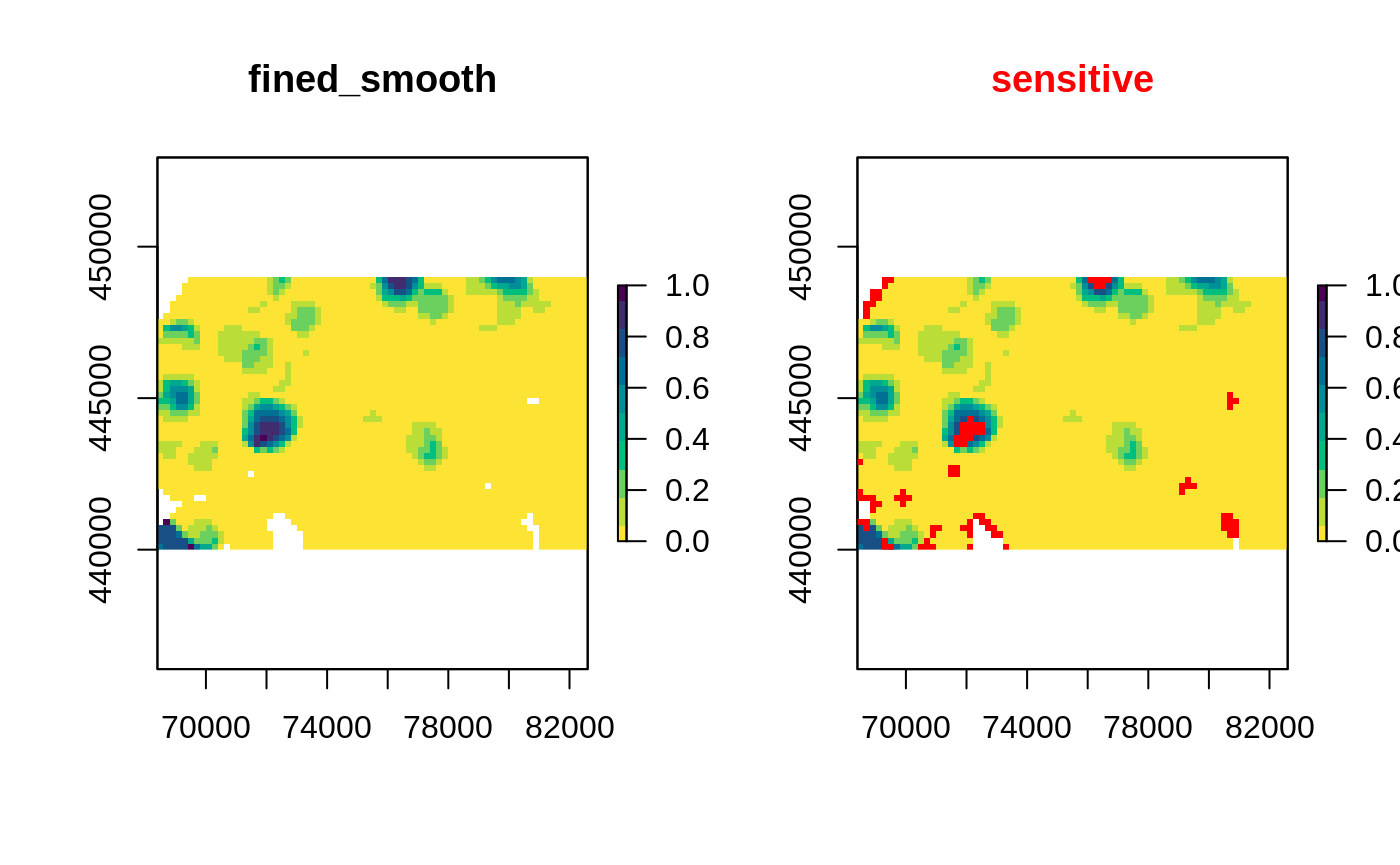
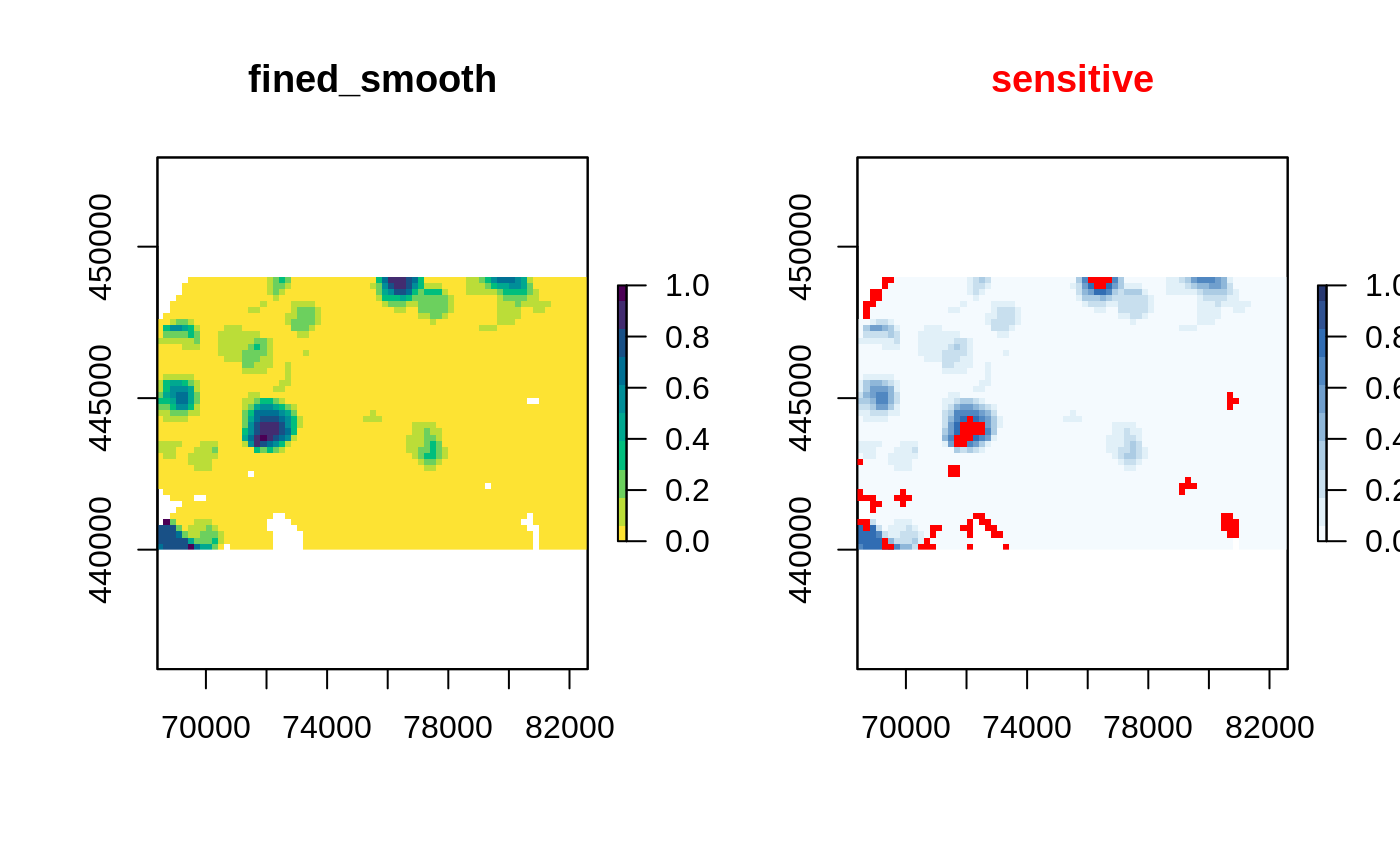
Built site for sdcSpatial: 0.1.0.9000@48c23c1

Changed region(s): [[0.6143, 0.3121, 0.9521, 0.6555]]

diff --git a/articles/privacy_protecting_maps.html b/articles/privacy_protecting_maps.html
@@ -88,7 +88,7 @@
 
     
     
-<p>Plotting data on a map is a popular and helpful tool to analyze spatial data. R makes it easy to plot spatial data using packages such as <code>ggplot2</code>, <code>tmap</code>, <code>mapview</code> or <code>leaflet</code>. However when plotting the spatial distribution of a <em>sensitive</em> variable, you may accidentally reveal a sensitive value of an individual observation, e.g. the income of a person. The procedure of adjusting output data to protect individual observations is called <em>statistical disclosure control</em> and several open source tools are available, including <a href="http://research.cbs.nl/casc/tau.htm"><span class="math inline">\(\tau\)</span>-Argus</a> and R packages <a href="https://cran.r-project.org/package=sdcTable">sdcTable</a> and <a href="https://cran.r-project.org/package=sdcMicro">sdcMicro</a>. Most SDC software operates on values of records, mostly ignoring spatial properties (if any) of data.</p>
+<p>Plotting data on a map is a popular and helpful tool to analyze spatial data. R makes it easy to plot spatial data with packages such as <code>ggplot2</code>, <code>tmap</code>, <code>mapview</code> or <code>leaflet</code>. However when plotting the spatial distribution of a <em>sensitive</em> variable, e.g. income or unemployed, you may accidentally reveal a sensitive value of an individual observation. The procedure of adjusting output data to protect individual observations is called <em>statistical disclosure control</em> and several open source tools are available, including <a href="http://research.cbs.nl/casc/tau.htm"><span class="math inline">\(\tau\)</span>-Argus</a> and R packages <a href="https://cran.r-project.org/package=sdcTable">sdcTable</a> and <a href="https://cran.r-project.org/package=sdcMicro">sdcMicro</a>. Most SDC software operates on values of records, mostly ignoring spatial properties (if any) of data.</p>
 <p><code>sdcSpatial</code> contains functions to create spatial distribution maps, assess the risk of disclosure in locations on the map and to suppress or adjust locations with revealing sensitive values.</p>
 <div class="sourceCode" id="cb1"><pre class="sourceCode r"><code class="sourceCode r"><a class="sourceLine" id="cb1-1" data-line-number="1"><span class="kw"><a href="https://www.rdocumentation.org/packages/base/topics/library">library</a></span>(sdcSpatial)</a></code></pre></div>
 <div id="data" class="section level2">
@@ -141,7 +141,7 @@
 <a class="sourceLine" id="cb7-3" data-line-number="3"><span class="co">#&gt;    resolution: 500 500 ,  max_risk: 0.95 , min_count: 10 </span></a>
 <a class="sourceLine" id="cb7-4" data-line-number="4"><span class="co">#&gt;    mean sensitivity score [0,1]:  0.6432039</span></a></code></pre></div>
 <p>Printing the <code>production</code> object shows that when we demand that a raster cell should at least have 10 observations (<code>min_count</code>) and its maximum value should not comprise 95% (<code>max_risk</code>) of its total value, then 64% of the data in the map is sensitive!</p>
-<p>For enterprise data a threshold of 10 may be on the high side, so let us change that into 5:</p>
+<p>For enterprise data a threshold of 10 may be on the high side for a 500m by 500m block, so let us change that into 5:</p>
 <div class="sourceCode" id="cb8"><pre class="sourceCode r"><code class="sourceCode r"><a class="sourceLine" id="cb8-1" data-line-number="1">production<span class="op">$</span>min_count &lt;-<span class="st"> </span><span class="dv">5</span></a>
 <a class="sourceLine" id="cb8-2" data-line-number="2">production<span class="op">$</span>max_risk &lt;-<span class="st"> </span><span class="fl">0.9</span></a>
 <a class="sourceLine" id="cb8-3" data-line-number="3"><span class="co"># or equally </span></a>
@@ -169,7 +169,7 @@
 <a class="sourceLine" id="cb13-6" data-line-number="6">raster<span class="op">::</span><span class="kw"><a href="https://www.rdocumentation.org/packages/raster/topics/plot">plot</a></span>(mean_production, <span class="dt">col=</span>col)</a></code></pre></div>
 <p><img src="privacy_protecting_maps_files/figure-html/unnamed-chunk-12-1.png" width="100%"></p>
 <p><code>protect_quadtree</code> is also a protecting method, which we demonstrate with the variable <code>fined</code>.</p>
-<p>First we create a more fine grained (punned not intended) raster for the variable <code>fined</code>.</p>
+<p>First we create a more fine grained (pun not intended) raster for the variable <code>fined</code>.</p>
 <div class="sourceCode" id="cb14"><pre class="sourceCode r"><code class="sourceCode r"><a class="sourceLine" id="cb14-1" data-line-number="1">fined &lt;-<span class="st"> </span><span class="kw"><a href="../reference/sdc_raster.html">sdc_raster</a></span>(enterprises, <span class="st">"fined"</span>, <span class="dt">min_count =</span> <span class="dv">5</span>, <span class="dt">r =</span> <span class="dv">200</span>, <span class="dt">max_risk =</span> <span class="fl">0.8</span>)</a>
 <a class="sourceLine" id="cb14-2" data-line-number="2"><span class="kw"><a href="https://www.rdocumentation.org/packages/base/topics/print">print</a></span>(fined)</a>
 <a class="sourceLine" id="cb14-3" data-line-number="3"><span class="co">#&gt; logical sdc_raster object: </span></a>

diff --git a/reference/disclosure_risk.html b/reference/disclosure_risk.html
@@ -6,7 +6,7 @@
 <meta http-equiv="X-UA-Compatible" content="IE=edge">
 <meta name="viewport" content="width=device-width, initial-scale=1.0">
 
-<title>Calculate disclosure risk — disclosure_risk • sdcSpatial</title>
+<title>Calculate disclosure risk for raster cells — disclosure_risk • sdcSpatial</title>
 
 <!-- jquery -->
 <script src="https://cdnjs.cloudflare.com/ajax/libs/jquery/3.3.1/jquery.min.js" integrity="sha256-FgpCb/KJQlLNfOu91ta32o/NMZxltwRo8QtmkMRdAu8=" crossorigin="anonymous"></script>
@@ -30,7 +30,7 @@
 
 
 
-<meta property="og:title" content="Calculate disclosure risk — disclosure_risk" />
+<meta property="og:title" content="Calculate disclosure risk for raster cells — disclosure_risk" />
 
 <meta property="og:description" content="The disclosure risk function is used by is_sensitive() to determine the risk of
 a raster cell. It returns a score between 0 and 1 for cells that have a finite
@@ -113,7 +113,7 @@ value (otherwise NA)." />
 <div class="row">
   <div class="col-md-9 contents">
     <div class="page-header">
-    <h1>Calculate disclosure risk</h1>
+    <h1>Calculate disclosure risk for raster cells</h1>
     <small class="dont-index">Source: <a href='https://github.com/edwindj/sdcSpatial/blob/master/R/disclosure_risk.R'><code>R/disclosure_risk.R</code></a></small>
     <div class="hidden name"><code>disclosure_risk.Rd</code></div>
     </div>
@@ -148,9 +148,11 @@ value (otherwise <code>NA</code>).</p>
     <h2 class="hasAnchor" id="details"><a class="anchor" href="#details"></a>Details</h2>
 
     <p>Different risk functions include:</p><ul>
-<li><p>external (numeric variable), calculates how much the largest value comprises the total sum within a cell</p></li>
-<li><p>internal (numeric variable), calculates how much the largest value comprises the sum without the second largest value</p></li>
-<li><p>discrete (logical variable), calculates the fraction of sensitive values.</p></li>
+<li><p>external (numeric variable), calculates how much the largest value
+comprises the total sum within a cell</p></li>
+<li><p>internal (numeric variable), calculates how much the largest value
+comprises the sum without the second largest value</p></li>
+<li><p>discrete (logical variable), calculates the fraction of <code>TRUE</code> vs <code>FALSE</code></p></li>
 </ul>
     
     <h2 class="hasAnchor" id="see-also"><a class="anchor" href="#see-also"></a>See also</h2>

diff --git a/reference/plot_sensitive.html b/reference/plot_sensitive.html
@@ -124,7 +124,7 @@ plotted in red. The sensitive cells are determined using <code><a href='is_sensi
     
     </div>
 
-    <pre class="usage"><span class='fu'>plot_sensitive</span>(<span class='no'>x</span>, <span class='kw'>value</span> <span class='kw'>=</span> <span class='st'>"mean"</span>, <span class='kw'>main</span> <span class='kw'>=</span> <span class='st'>"sensitive"</span>, <span class='no'>...</span>)</pre>
+    <pre class="usage"><span class='fu'>plot_sensitive</span>(<span class='no'>x</span>, <span class='kw'>value</span> <span class='kw'>=</span> <span class='st'>"mean"</span>, <span class='kw'>main</span> <span class='kw'>=</span> <span class='st'>"sensitive"</span>, <span class='no'>col</span>, <span class='no'>...</span>)</pre>
     
     <h2 class="hasAnchor" id="arguments"><a class="anchor" href="#arguments"></a>Arguments</h2>
     <table class="ref-arguments">
@@ -141,6 +141,10 @@ e.g. "sum", "count", "mean" (default).</p></td>
     <tr>
       <th>main</th>
       <td><p><a href='https://www.rdocumentation.org/packages/base/topics/character'>character</a> title of map.</p></td>
+    </tr>
+    <tr>
+      <th>col</th>
+      <td><p>color palette to be used, passed on to <code><a href='https://www.rdocumentation.org/packages/raster/topics/plot'>raster::plot()</a></code>.</p></td>
     </tr>
     <tr>
       <th>...</th>

diff --git a/reference/dwellings.html b/reference/dwellings.html
@@ -143,7 +143,8 @@ The locations are realistic, but the associated data is simulated.</p>
     
     <h2 class="hasAnchor" id="references"><a class="anchor" href="#references"></a>References</h2>
 
-    <p>Basisregistratie Adressen en Gebouwen https://zakelijk.kadaster.nl/bag-producten</p>
+    <p>Basisregistratie Adressen en Gebouwen
+<a href='https://zakelijk.kadaster.nl/bag-producten'>https://zakelijk.kadaster.nl/bag-producten</a></p>
     
 
     <h2 class="hasAnchor" id="examples"><a class="anchor" href="#examples"></a>Examples</h2>

diff --git a/reference/index.html b/reference/index.html
@@ -131,7 +131,7 @@
         <td>
           <p><code><a href="disclosure_risk.html">disclosure_risk()</a></code> </p>
         </td>
-        <td><p>Calculate disclosure risk</p></td>
+        <td><p>Calculate disclosure risk for raster cells</p></td>
       </tr><tr>
         
         <td>
